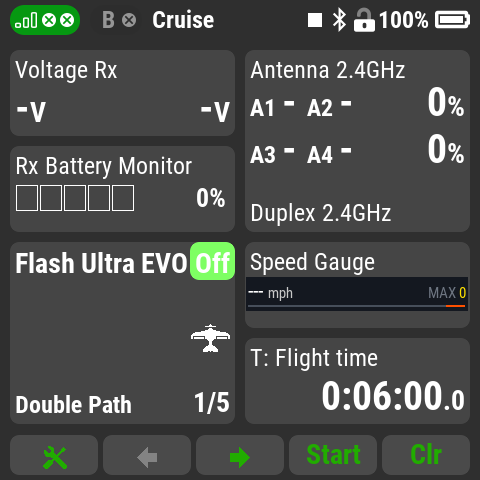
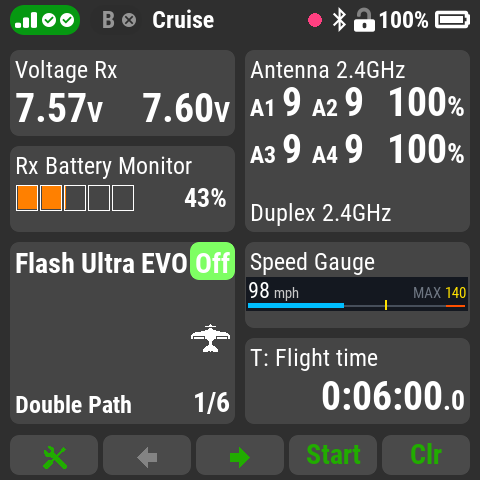
Description: live screenshots from the transmitter
Replace the bench screenshots with live pitot ones (2026-10-06): full
screen at 121 mph with max 140 and the sensor temperature in use, the
single-size bar at 98 mph, and a new double-size dial at 105 mph.

diff --git a/docs/apps/speed-gauge.html b/docs/apps/speed-gauge.html
@@ -27,6 +27,8 @@
             <li>Works with a pitot airspeed sensor (e.g. JETI MSpeed) or GPS
             speed.</li>
         </ul>
+        <p>Double and single size on the main screen:</p>
+        <img src="img/speed-gauge-double.png" alt="Speed Gauge double size" width="480">
         <img src="img/speed-gauge-single.png" alt="Speed Gauge single size" width="480">
         <p><b>Installing takes a while:</b> Speed Gauge brings its own voice,
         about 550 files (24 MB), mostly short audio clips, and copying them

diff --git a/docs/apps/speed-gauge.md b/docs/apps/speed-gauge.md
@@ -20,6 +20,7 @@ gauge for the JETI **DS-24 II / DC-24 II**.
   (double size) or a full-screen dial with stall, overspeed, air density,
   elevation, temperature and raw sensor speed.
 
+  ![Speed Gauge double size, on the main screen](https://raw.githubusercontent.com/Flazzarious/jeti-lua-apps/main/docs/apps/img/speed-gauge-double.png)
   ![Speed Gauge single size, on the main screen](https://raw.githubusercontent.com/Flazzarious/jeti-lua-apps/main/docs/apps/img/speed-gauge-single.png)
 - **Air density correction** (optional) shows true airspeed from your field
   elevation and the temperature: standard, entered by hand, or read live
